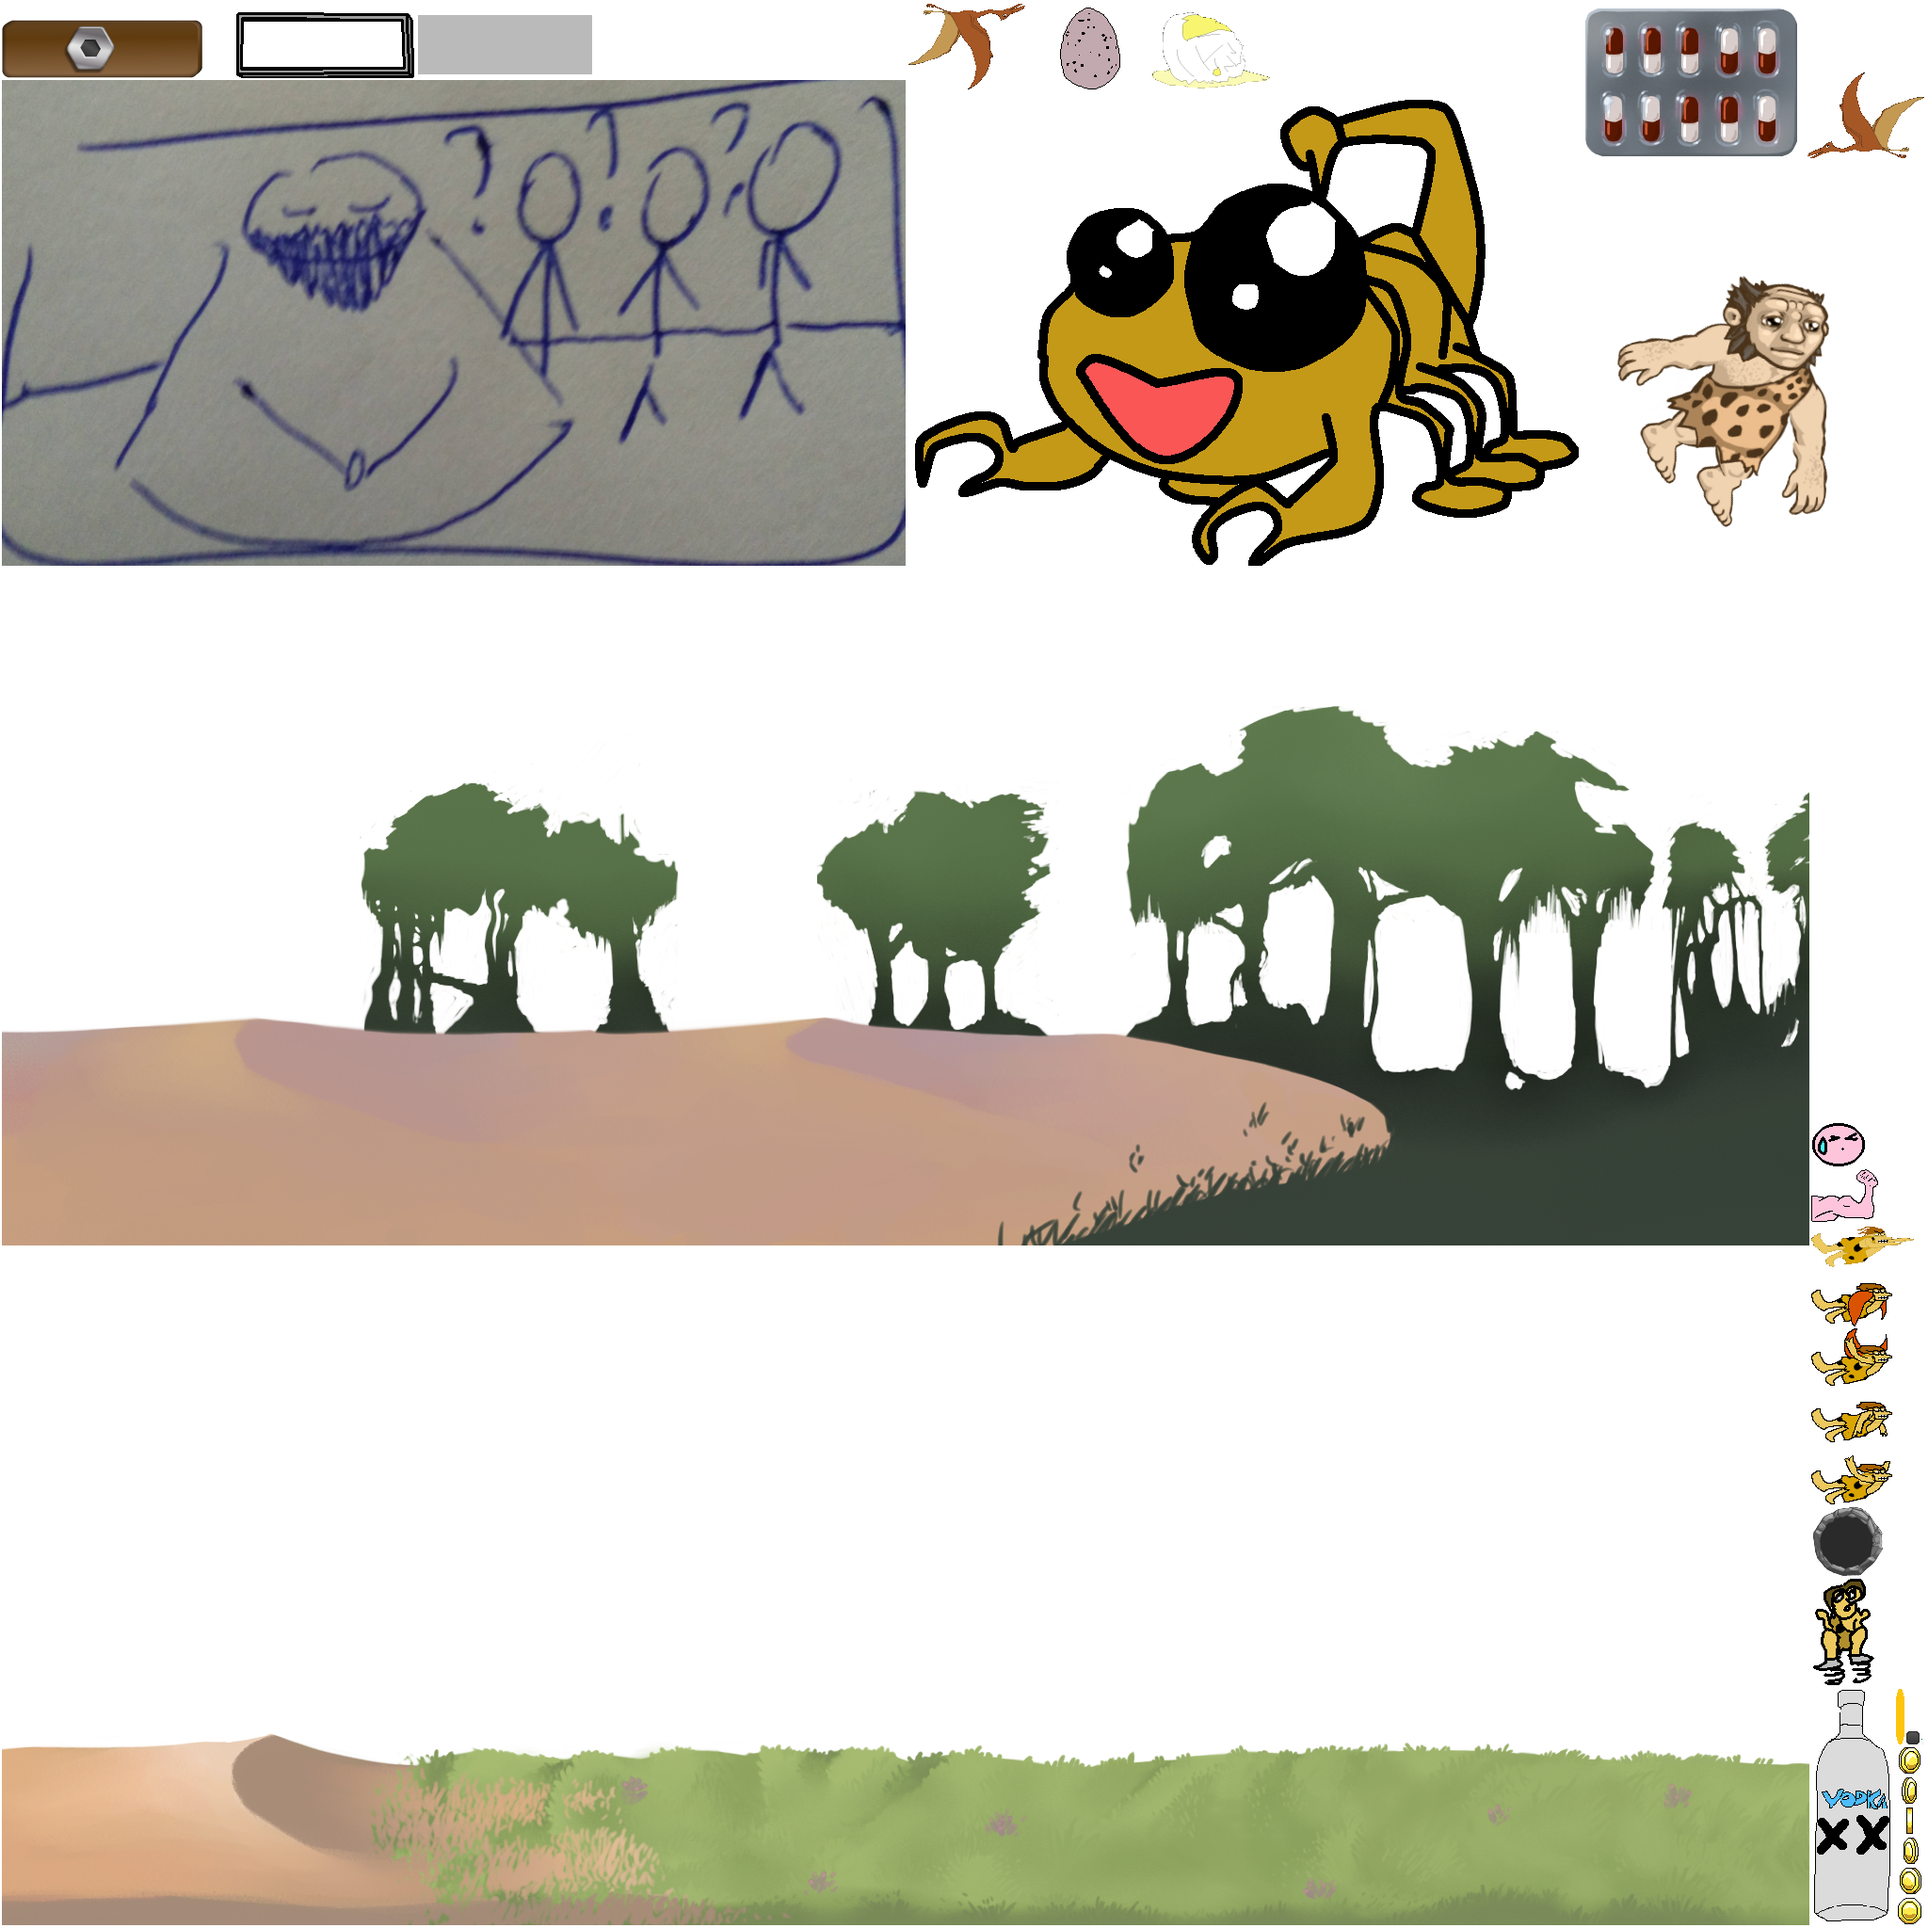
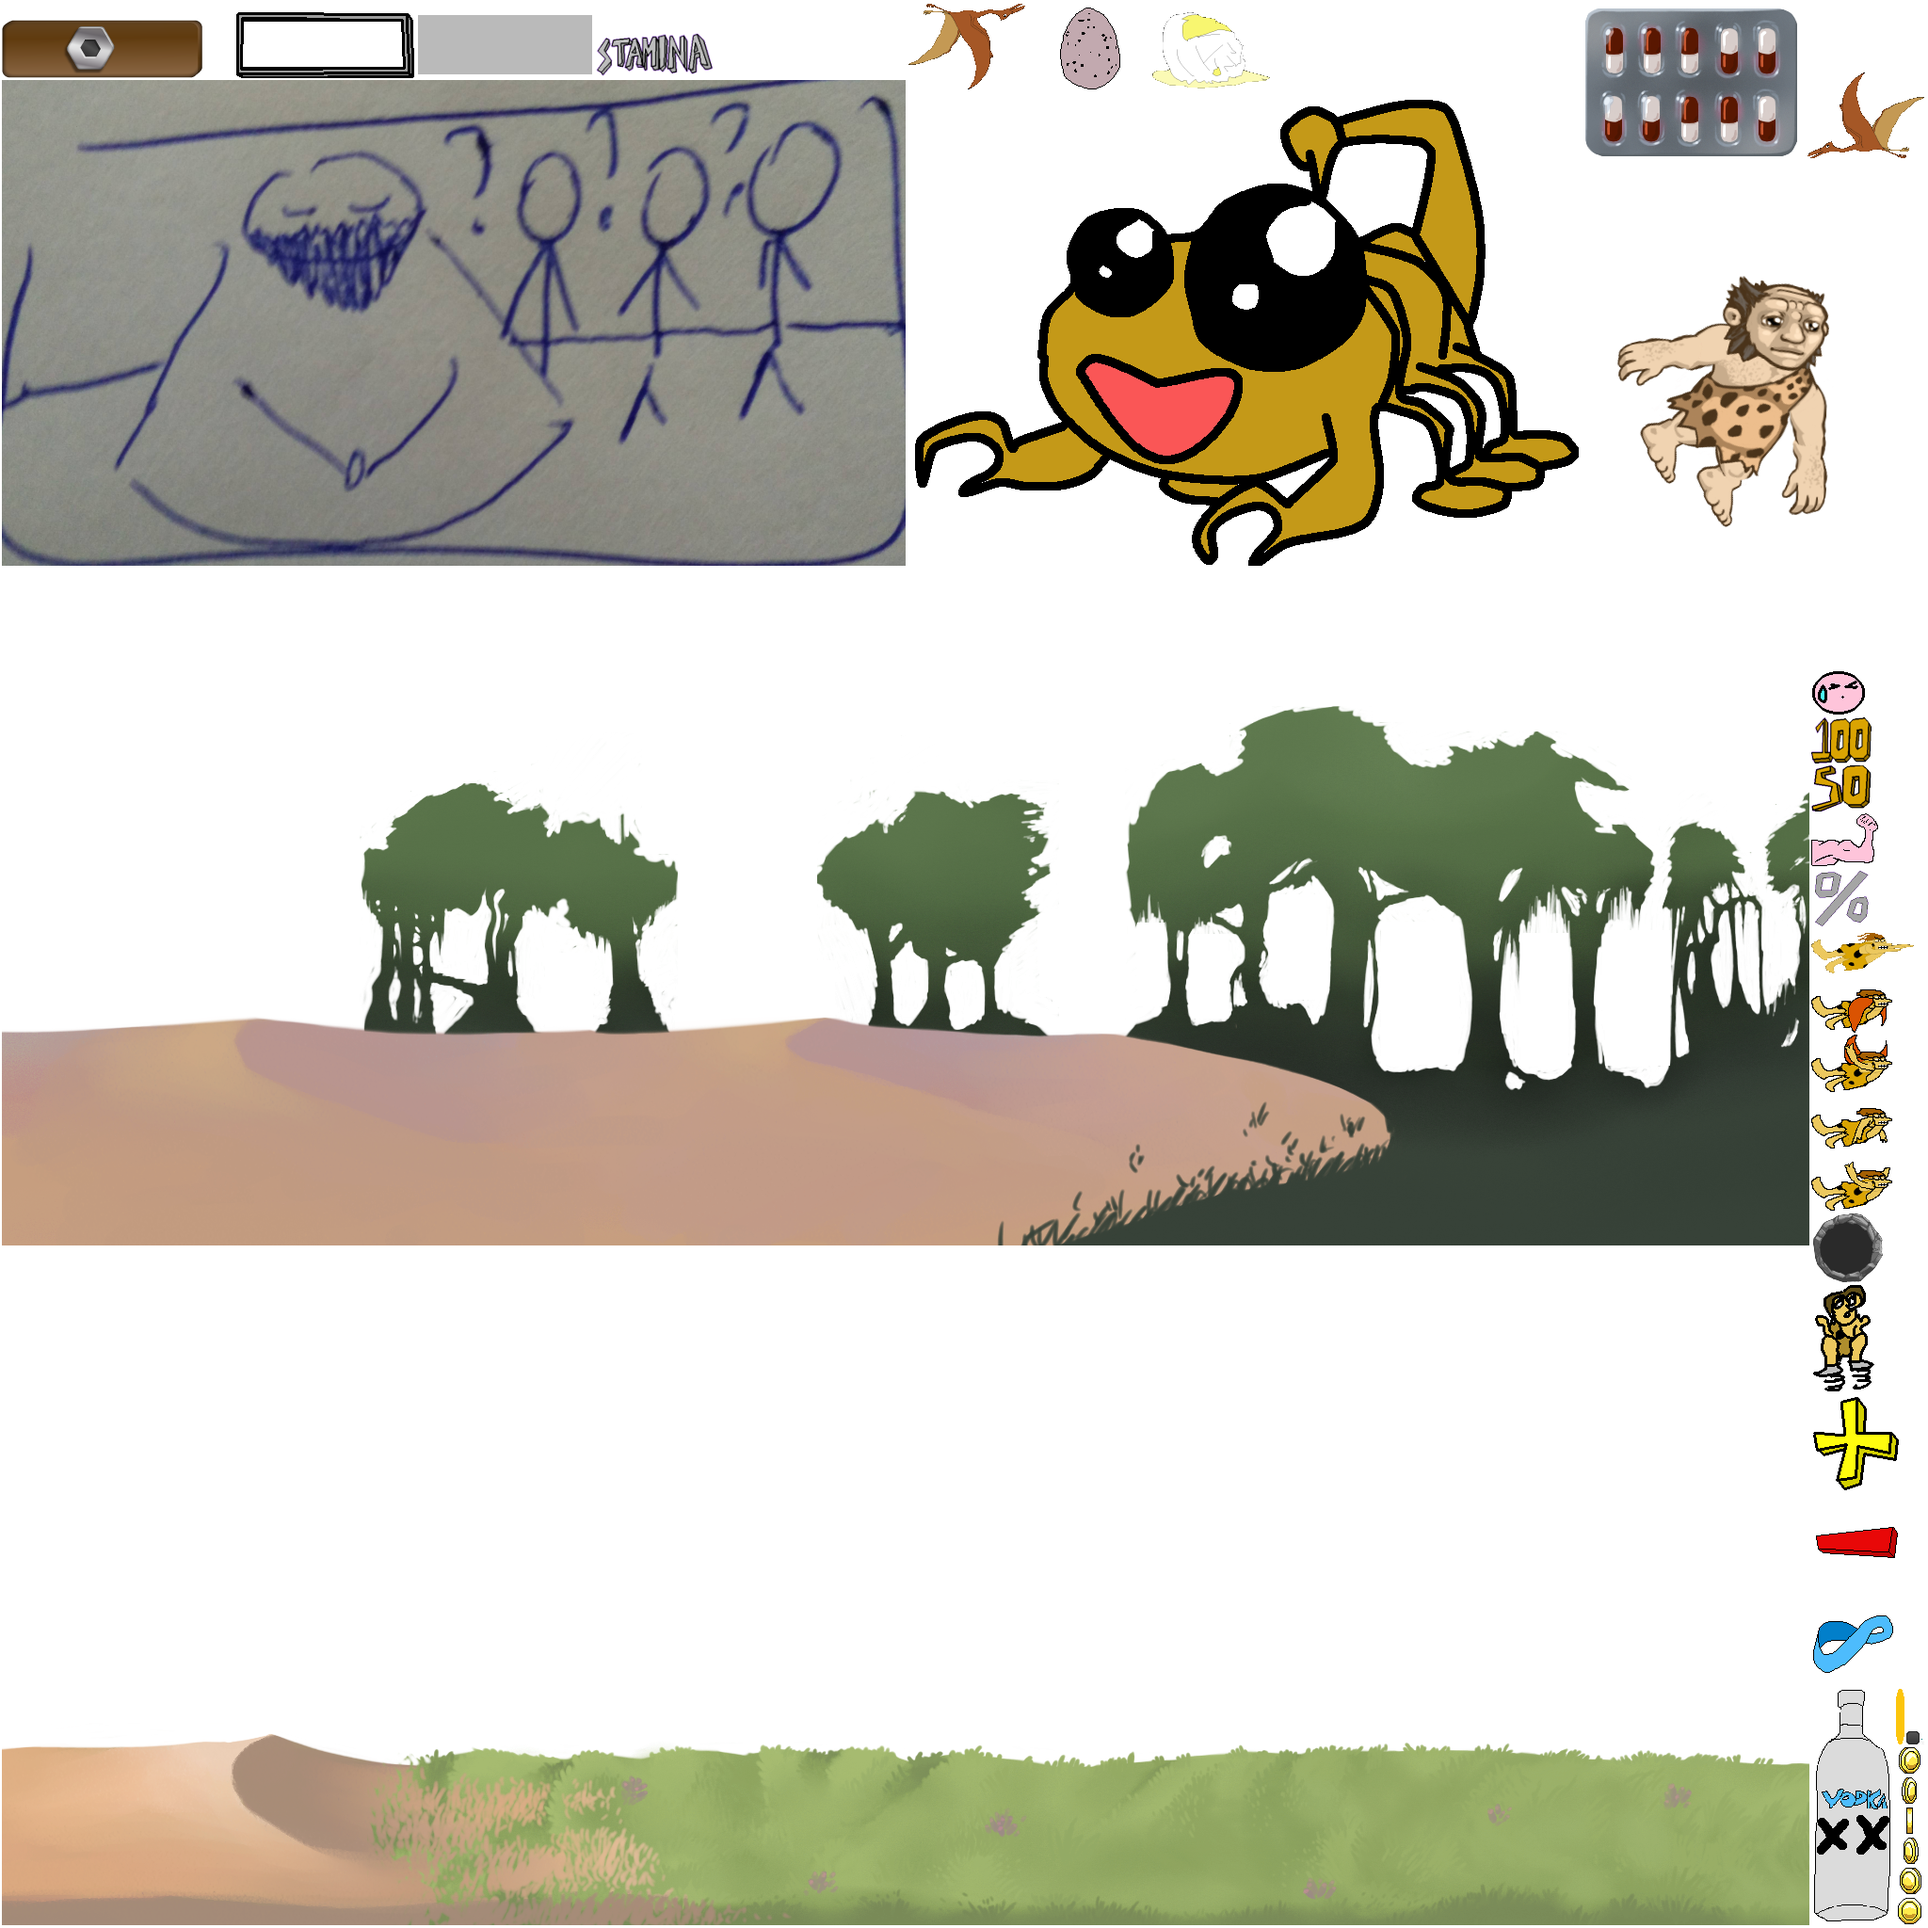
:trihard:  powerups feedback UI

Changed region(s): [[0.9375, 0.3438, 1.0, 0.875], [0.3125, 0.0, 0.375, 0.0625]]

diff --git a/core/src/com/deeep/flycaveman/widgets/PickupsWidget.java b/core/src/com/deeep/flycaveman/widgets/PickupsWidget.java
@@ -1,0 +1,100 @@
+package com.deeep.flycaveman.widgets;
+
+import com.badlogic.gdx.graphics.g2d.Batch;
+import com.badlogic.gdx.scenes.scene2d.Actor;
+import com.badlogic.gdx.scenes.scene2d.actions.Actions;
+import com.badlogic.gdx.scenes.scene2d.actions.SequenceAction;
+import com.badlogic.gdx.scenes.scene2d.ui.Image;
+import com.deeep.flycaveman.Assets;
+import com.deeep.flycaveman.Core;
+import com.deeep.flycaveman.entities.PowerUp;
+
+/**
+ * Created by scanevaro on 07/04/2015.
+ */
+public class PickupsWidget extends Actor {
+    private Image stamina, percentage, plus, minus, infinite, one, five;
+
+    public PickupsWidget() {
+        stamina = new Image(Assets.staminaText);
+        stamina.setSize(stamina.getPrefWidth(), stamina.getPrefHeight());
+        stamina.setPosition(-stamina.getWidth(), Core.VIRTUAL_HEIGHT / 2 - stamina.getHeight() / 2);
+        percentage = new Image(Assets.percentage);
+        percentage.setSize(percentage.getPrefWidth(), percentage.getPrefHeight());
+        percentage.setPosition(-percentage.getWidth(), Core.VIRTUAL_HEIGHT / 2 - percentage.getHeight() / 2);
+        plus = new Image(Assets.plus);
+        plus.setSize(plus.getPrefWidth(), plus.getPrefHeight());
+        plus.setPosition(-plus.getWidth(), Core.VIRTUAL_HEIGHT / 2 - plus.getHeight() / 2);
+        minus = new Image(Assets.minus);
+        minus.setSize(minus.getPrefWidth(), minus.getPrefHeight());
+        minus.setPosition(-minus.getWidth(), Core.VIRTUAL_HEIGHT / 2 - minus.getHeight() / 2);
+        infinite = new Image(Assets.infinite);
+        infinite.setSize(infinite.getPrefWidth(), infinite.getPrefHeight());
+        infinite.setPosition(-infinite.getWidth(), Core.VIRTUAL_HEIGHT / 2 - infinite.getHeight() / 2);
+        one = new Image(Assets.one);
+        one.setSize(one.getPrefWidth(), one.getPrefHeight());
+        one.setPosition(-one.getWidth(), Core.VIRTUAL_HEIGHT / 2 - one.getHeight() / 2);
+        five = new Image(Assets.five);
+        five.setSize(five.getPrefWidth(), five.getPrefHeight());
+        five.setPosition(-five.getWidth(), Core.VIRTUAL_HEIGHT / 2 - five.getHeight() / 2);
+    }
+
+    @Override
+    public void act(float delta) {
+        super.act(delta);
+        stamina.act(delta);
+        plus.act(delta);
+        minus.act(delta);
+        infinite.act(delta);
+        one.act(delta);
+        five.act(delta);
+    }
+
+    @Override
+    public void draw(Batch batch, float parentAlpha) {
+        stamina.draw(batch, parentAlpha);
+        plus.draw(batch, parentAlpha);
+        minus.draw(batch, parentAlpha);
+        infinite.draw(batch, parentAlpha);
+        one.draw(batch, parentAlpha);
+        five.draw(batch, parentAlpha);
+    }
+
+    public void show(PowerUp.Type type) {
+        if (type == PowerUp.Type.VODKA) {
+            stamina.addAction(new SequenceAction(
+                    Actions.moveTo(80, Core.VIRTUAL_HEIGHT / 2 - stamina.getHeight() / 2, 0.4f)/*,
+                    Actions.scaleBy(1.2f, 1.2f, 0.25f), Actions.scaleBy(0.5f, 0.5f, 0.25f)*/,
+                    Actions.delay(0.5f),
+                    Actions.moveTo(-stamina.getWidth(), Core.VIRTUAL_HEIGHT / 2 - stamina.getHeight() / 2, 0.4f)));
+            minus.addAction(new SequenceAction(
+                    Actions.moveTo(20, Core.VIRTUAL_HEIGHT / 2 - minus.getHeight() / 2, 0.4f)/*,
+                    Actions.scaleBy(1.2f, 1.2f, 0.25f), Actions.scaleBy(0.5f, 0.5f, 0.25f)*/,
+                    Actions.delay(0.5f),
+                    Actions.moveTo(-minus.getWidth(), Core.VIRTUAL_HEIGHT / 2 - minus.getHeight() / 2, 0.4f)));
+        } else if (type == PowerUp.Type.SPINACH) {
+            stamina.addAction(new SequenceAction(
+                    Actions.moveTo(80, Core.VIRTUAL_HEIGHT / 2 - stamina.getHeight() / 2, 0.4f)/*,
+                    Actions.scaleBy(1.2f, 1.2f, 0.25f), Actions.scaleBy(0.5f, 0.5f, 0.25f)*/,
+                    Actions.delay(0.5f),
+                    Actions.moveTo(-stamina.getWidth(), Core.VIRTUAL_HEIGHT / 2 - stamina.getHeight() / 2, 0.4f)));
+            infinite.addAction(new SequenceAction(
+                    Actions.moveTo(20, Core.VIRTUAL_HEIGHT / 2 - infinite.getHeight() / 2, 0.4f)/*,
+                    Actions.scaleBy(1.2f, 1.2f, 0.25f), Actions.scaleBy(0.5f, 0.5f, 0.25f)*/,
+                    Actions.delay(0.5f),
+                    Actions.moveTo(-infinite.getWidth(), Core.VIRTUAL_HEIGHT / 2 - infinite.getHeight() / 2, 0.4f)));
+        } else if (type == PowerUp.Type.SODACAN) {
+            stamina.addAction(new SequenceAction(
+                    Actions.moveTo(80, Core.VIRTUAL_HEIGHT / 2 - stamina.getHeight() / 2, 0.4f)/*,
+                    Actions.scaleBy(1.2f, 1.2f, 0.25f), Actions.scaleBy(0.5f, 0.5f, 0.25f)*/,
+                    Actions.delay(0.5f),
+                    Actions.moveTo(-stamina.getWidth(), Core.VIRTUAL_HEIGHT / 2 - stamina.getHeight() / 2, 0.4f)));
+        } else if (type == PowerUp.Type.MEAT) {
+            stamina.addAction(new SequenceAction(
+                    Actions.moveTo(80, Core.VIRTUAL_HEIGHT / 2 - stamina.getHeight() / 2, 0.4f)/*,
+                    Actions.scaleBy(1.2f, 1.2f, 0.25f), Actions.scaleBy(0.5f, 0.5f, 0.25f)*/,
+                    Actions.delay(0.5f),
+                    Actions.moveTo(-stamina.getWidth(), Core.VIRTUAL_HEIGHT / 2 - stamina.getHeight() / 2, 0.4f)));
+        }
+    }
+}

diff --git a/core/src/com/deeep/flycaveman/Assets.java b/core/src/com/deeep/flycaveman/Assets.java
@@ -23,7 +23,7 @@ import java.util.Random;
  */
 public class Assets {
 
-    private static Random rand;
+    public static Random rand;
 
     public static AssetManager assetManager;
 
@@ -35,7 +35,6 @@ public class Assets {
 
     public static TextureAtlas items;
     public static Texture darkSky;
-    public static TextureRegion cloud1, cloud2, cloud3;
     public static TextureRegion cavemanTexture, brachioTexture, brachioBackPull, brachioFrontPull,
             brachioMidPull, quetzaTexture, smallEggTexture, smallEggBroken, staminaBackground, staminaFill, staminaBar,
             staminaHand, restartButton, catapultArmTexture, catapultBaseTexture, homeButton, shopButton, staminaplus,
@@ -44,7 +43,8 @@ public class Assets {
             facePassion, faceKO, title, touchNH, buttonBroken, button, dialog, buyButton, buyButtonDown, starBlack,
             starBright, buyButtonDisabled, tree, mute1Button, mute2Button, resumeButton, magnet, clench, intro1, intro2,
             intro3, intro4, intro5, tutorial0, tutorial1, tutorial2, tutorial3, tutorial4, tutorial20, tutorial21,
-            tutorial22, tutorial23, tutorial24, touch2, toucanTexture, toucanHit, argenTexture, argenHit;
+            tutorial22, tutorial23, tutorial24, touch2, toucanTexture, toucanHit, argenTexture, argenHit, staminaText,
+            plus, minus, infinite, percentage, one, five, cloud1, cloud2, cloud3;
     public static Animation cavemanWings, cavemanFlap, cavemanSprings, cavemanFly;
     public static TextureRegion dessert_layer_1, dessert_layer_2, dessert_layer_3,
             dessert_layer_4;  //todo put this in an enum or so
@@ -238,6 +238,13 @@ public class Assets {
         toucanHit = items.findRegion("toucan2");
         argenTexture = items.findRegion("argentavis1");
         argenHit = items.findRegion("argentavis2");
+        staminaText = items.findRegion("staminaText");
+        plus = items.findRegion("plus");
+        minus = items.findRegion("minus");
+        infinite = items.findRegion("infinite");
+        percentage = items.findRegion("percentage");
+        one = items.findRegion("one");
+        five = items.findRegion("five");
 
         cavemanWings = new Animation(0.1f, items.findRegion("cavemanWings1"), items.findRegion("cavemanWings2"));
         cavemanWings.setPlayMode(Animation.PlayMode.LOOP);

diff --git a/core/src/com/deeep/flycaveman/screens/GameScreen.java b/core/src/com/deeep/flycaveman/screens/GameScreen.java
@@ -49,6 +49,7 @@ public class GameScreen extends AbstractScreen {
     private Dialog nameDialog;
     private TextField nameTextArea;
     private TutorialWidget tutorialWidget;
+    public PickupsWidget pickupsWidget;
     /**
      * World
      */
@@ -114,7 +115,7 @@ public class GameScreen extends AbstractScreen {
         expressions = new ExpressionsWidget();
         coinsWidget = new CoinsWidget();
         tutorialWidget = new TutorialWidget();
-        //pickupsWidget = new PickupsWidget();
+        pickupsWidget = new PickupsWidget();
     }
 
     private void configureWidgets() {
@@ -136,7 +137,7 @@ public class GameScreen extends AbstractScreen {
     private void prepareWorld() {
         worldStage = new Stage(new FitViewport(Core.BOX2D_VIRTUAL_WIDTH, Core.BOX2D_VIRTUAL_HEIGHT));
         gameCamera = (OrthographicCamera) worldStage.getCamera();
-        world = new World(worldStage, stage, false);
+        world = new World(game, worldStage, stage, false);
         stage.addActor(world);
     }
 
@@ -163,6 +164,7 @@ public class GameScreen extends AbstractScreen {
         stage.addActor(expressions);
         stage.addActor(coinsWidget);
         stage.addActor(tutorialWidget);
+        stage.addActor(pickupsWidget);
     }
 
     private void setInputProcessor() {

diff --git a/core/src/com/deeep/flycaveman/input/GameContactListener.java b/core/src/com/deeep/flycaveman/input/GameContactListener.java
@@ -2,18 +2,24 @@ package com.deeep.flycaveman.input;
 
 import com.badlogic.gdx.physics.box2d.*;
 import com.deeep.flycaveman.Assets;
+import com.deeep.flycaveman.Core;
 import com.deeep.flycaveman.entities.*;
+import com.deeep.flycaveman.screens.GameScreen;
 import com.deeep.flycaveman.world.World;
 
 /**
  * Created by scanevaro on 14/10/2014.
  */
 public class GameContactListener implements ContactListener {
+    private Core game;
+    private GameScreen screen;
     private com.deeep.flycaveman.world.World world;
     private float force;
     private final float smallEggForce = 10, brachioForce = 20, quetzaForce = 18, argenForce = 20, toucanForce = 35;
 
-    public GameContactListener(World world) {
+    public GameContactListener(Core game, World world) {
+        this.game = game;
+        screen = (GameScreen) game.screen;
         this.world = world;
     }
 
@@ -83,6 +89,7 @@ public class GameContactListener implements ContactListener {
                 }
                 powerUp.die();
                 world.caveman.powerUpsPicked++;
+                screen.pickupsWidget.show(powerUp.type);
             }
 
             /**Collision for coins*/

diff --git a/core/src/com/deeep/flycaveman/world/World.java b/core/src/com/deeep/flycaveman/world/World.java
@@ -31,6 +31,7 @@ public class World extends Actor implements Disposable {
     private final float TIMESTEP = 1 / 60f;
     private final int VELOCITYITERATIONS = 8, POSITIONITERATIONS = 3;
 
+    private Core game;
     private Stage worldStage;
     private Stage stage;
     private Viewport startViewport;
@@ -77,7 +78,8 @@ public class World extends Actor implements Disposable {
     private StartScreenWidget startScreen;
     private Tree tree;
 
-    public World(Stage worldStage, Stage stage, boolean debug) {
+    public World(Core game, Stage worldStage, Stage stage, boolean debug) {
+        this.game = game;
         this.worldStage = worldStage;
         this.stage = stage;
 
@@ -99,7 +101,7 @@ public class World extends Actor implements Disposable {
         scrollTimer = 0;
 
         box2dWorld = new com.badlogic.gdx.physics.box2d.World(new Vector2(0, -18.81f), true);
-        box2dWorld.setContactListener(gameContactListener = new GameContactListener(this));
+        box2dWorld.setContactListener(gameContactListener = new GameContactListener(game, this));
 
         ground = new Ground(box2dWorld);
         coinSpawner = new CoinSpawner();
